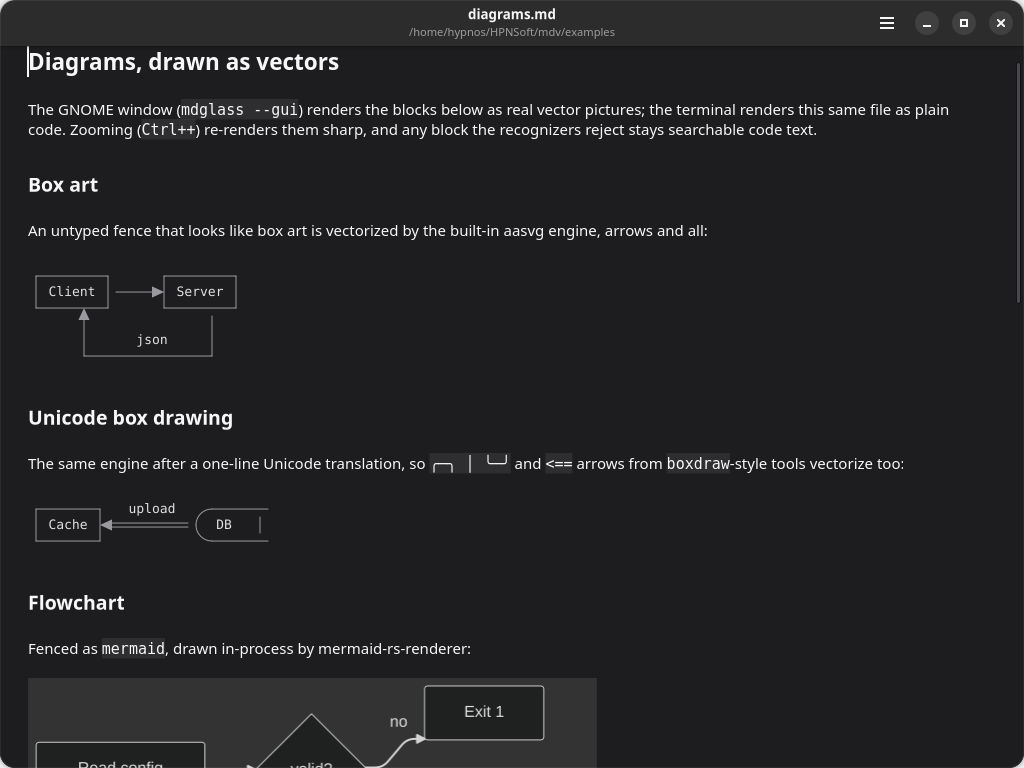
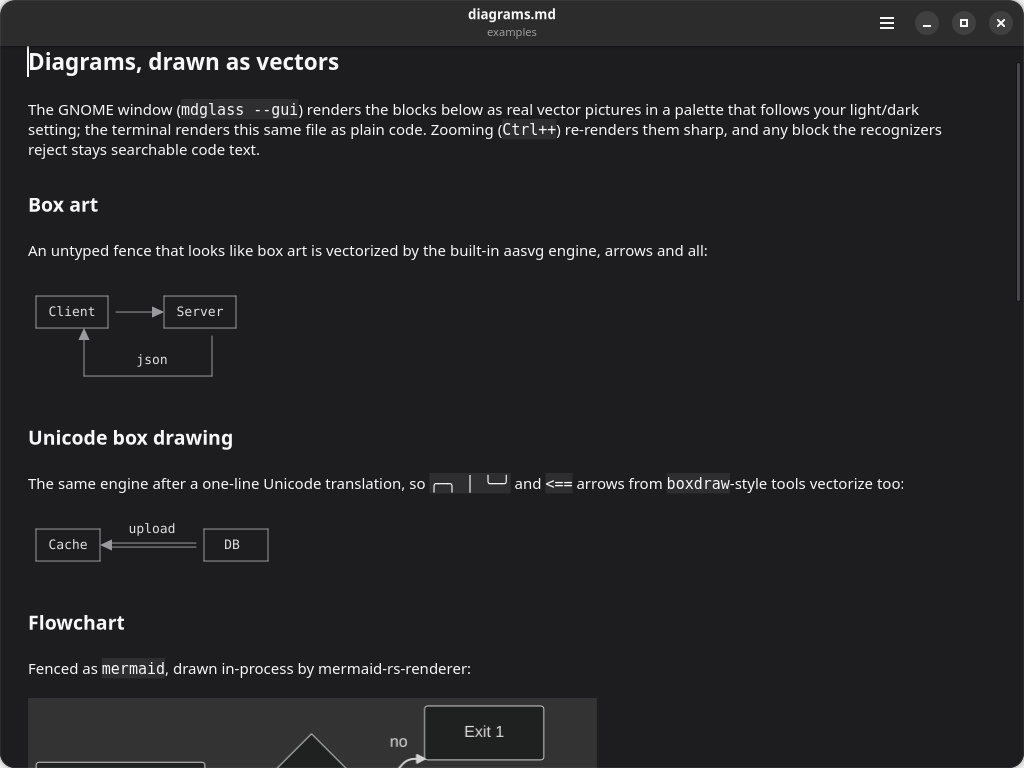
review pass: changelog history, CLI deadline, live-switch tests
Opus 5.5 audit of 50f13e9..HEAD, all findings addressed:
- the release scripts' 'open(w) then read' bug had truncated
  debian/changelog; -1..-6 are restored from git above the -7 entry
- the shipped unicode demo box was one column short (half-open DB
  frame); arrow widened, screenshots re-shot with the dark palettes
- wedged mmdr can no longer freeze the UI thread: 5 s deadline (kill
  without joining the stdout drainer - a grandchild can hold the pipe
  open, verified: a hanging wrapper costs 5 s, not 30), 8 MB output
  cap, and a CLI without -t is retried with the plain invocation
- smoke gains live light/dark switch sessions: a gset: script step
  flips org.gnome.desktop.interface through a workdir-local keyfile
  (the exact path Adwaita uses on a real desktop; set_color_scheme is
  inert headless), and light gates now demand mermaid's #64748B/
  #94A3B8 ink (71 px measured light, 0 dark/text-only) instead of a
  rule the box art alone satisfied
- aasvg keeps its theme-independent raw SVG across style switches
  (constant theme bit in its engine key); only mermaid re-renders
- examples ship under /usr/share/doc/mdglass/examples; nt.log removed
  and *.log ignored; dead test loop gone

diff --git a/tests/gui_smoke.py b/tests/gui_smoke.py
@@ -23,13 +23,15 @@ broadway = subprocess.Popen(["gtk4-broadwayd", DISPLAY], stdout=subprocess.DEVNU
 time.sleep(0.8)
 failures = 0
 
-def run(args, script, stdin=None, timeout=40, scheme=None):
+def run(args, script, stdin=None, timeout=40, scheme=None, env_extra=None):
     env = dict(os.environ, GDK_BACKEND="broadway", BROADWAY_DISPLAY=DISPLAY,
                MDGLASS_GUI_SCRIPT=script,
                # portals of the host session are not needed and may be slow
                ADW_DISABLE_PORTAL="1", GDK_DEBUG="no-portals")
     if scheme:  # pin light/dark so pixel checks do not depend on the host theme
         env["ADW_DEBUG_COLOR_SCHEME"] = scheme
+    if env_extra:
+        env.update(env_extra)
     p = subprocess.run([MDGLASS, "--gui", *args], env=env, input=stdin, capture_output=True,
                        timeout=timeout, cwd=work)
     return p.returncode, p.stderr.decode(errors="replace")
@@ -466,6 +468,18 @@ fn main() {}
     DARK_CANVAS = lambda c: all(abs(v - 0x33) <= 8 for v in c)   # Theme::dark() field
     LIGHT_CANVAS = lambda c: all(v > 235 for v in c)             # light field
 
+    # ink only the mermaid light palette paints: line_color #64748B (edges)
+    # and primary_border_color #94A3B8 (node borders). Neither appears in the
+    # Adwaita light UI nor in the aasvg box-art palette (#5e5c64/#222222), so
+    # these pixels can only come from a light mermaid picture.
+    MERMAID_INK = lambda c: (abs(c[0] - 0x64) <= 6 and abs(c[1] - 0x74) <= 6 and abs(c[2] - 0x8B) <= 6) or \
+                            (abs(c[0] - 0x94) <= 6 and abs(c[1] - 0xA3) <= 6 and abs(c[2] - 0xB8) <= 6)
+
+    def mermaid_ink(path, xlo=20):
+        img = pngread.open(path)
+        return sum(1 for y in range(56, img.h, 2) for x in range(xlo, img.w - 16, 2)
+                   if MERMAID_INK(img.rgb(x, y)[:3]))
+
     def dgr_check(path, dark=True):
         img = pngread.open(path)
         # the mermaid canvas follows the style: #333333 on a dark page,
@@ -481,24 +495,57 @@ fn main() {}
     quality("pictures survive a full re-render of the document", dgr_check, p("dgr2.png"))
     quality("pictures stay vector after zooming", dgr_check, p("dgr3.png"))
 
-    # the palette must follow the style switch, not ride along from before:
-    # same document, light style, dark field forbidden. The light window is
-    # itself near-white, so there is no positive canvas count to demand:
-    # the vector rule (text-only build of this document: 73px) and the
-    # absent dark field carry the proof.
-    rc, err = run([p("dgr.md")], f"shot:{p('dgr_light.png')};quit", scheme="prefer-light", timeout=60)
-    check("light diagram session exits cleanly", rc == 0, f"exit {rc}\n{err[-400:]}")
-    check("light diagram session has no GTK warnings", not gtk_noise(err),
+    # the palette must follow a LIVE style switch, not ride along from before.
+    # The gset: script step flips org.gnome.desktop.interface color-scheme in
+    # a GSETTINGS keyfile inside this suite's own workdir (never the user's
+    # settings), which is exactly how Adwaita learns its style on a real
+    # desktop. One process forces dark, shoots, forces light, shoots: the
+    # dark picture must carry the #333333 field and the light one must gain
+    # mermaid's light-palette ink (a fresh mermaid render, not just box art).
+    cfg = os.path.join(work, "cfg")
+    os.makedirs(cfg, exist_ok=True)
+    flip_env = {"GSETTINGS_BACKEND": "keyfile", "XDG_CONFIG_HOME": cfg}
+    rc, err = run([p("dgr.md")], ";".join([
+        "gset:prefer-dark", f"shot:{p('dgr_flip_dark.png')}",
+        "gset:prefer-light", f"shot:{p('dgr_flip_light.png')}", "quit"]),
+        env_extra=flip_env, timeout=60)
+    check("live-switch diagram session exits cleanly", rc == 0, f"exit {rc}\n{err[-400:]}")
+    check("live-switch diagram session has no GTK warnings", not gtk_noise(err),
           "\n     ".join(gtk_noise(err)[:5]))
 
-    def dgr_light_check(path):
+    def dgr_dark_path(path):
+        img = pngread.open(path)
+        want = runs_of(img, DARK_CANVAS)
+        stale = runs_of(img, LIGHT_CANVAS)
+        best = longest_rule(img)
+        ok = best >= 400 and want >= 8000 and stale < 2000
+        return ok, f"longest rule {best}px, dark canvas {want}px, stale light {stale}px"
+
+    def dgr_light_path(path):
         img = pngread.open(path)
         dark_field = runs_of(img, DARK_CANVAS)
         best = longest_rule(img)
-        ok = dark_field < 1000 and best >= 120
-        return ok, f"dark canvas pixels {dark_field} (must be ~none), longest vector rule {best}px"
+        ink = mermaid_ink(path)
+        # measured: light mermaid flowchart at zoom 1 = 71 ink px, text-only
+        # and dark-mode pages = 0, so >= 30 separates them with margin
+        ok = dark_field < 1000 and best >= 120 and ink >= 30
+        return ok, (f"dark canvas {dark_field}px (must be ~none), rule {best}px, "
+                    f"mermaid light ink {ink}px (proves a light mermaid re-render)")
 
-    quality("light style gets a light mermaid palette, still vector", dgr_light_check, p("dgr_light.png"))
+    quality("forced dark paints the dark mermaid palette", dgr_dark_path, p("dgr_flip_dark.png"))
+    quality("forcing light live repaints mermaid light, no dark field left", dgr_light_path, p("dgr_flip_light.png"))
+
+    # the same, in a process that starts light and flips to dark: the light
+    # picture carries mermaid ink and no dark field; after the flip the dark
+    # field is back.
+    rc, err = run([p("dgr.md")], ";".join([
+        "gset:prefer-light", f"shot:{p('dgr_light.png')}",
+        "gset:prefer-dark", f"shot:{p('dgr_after_dark.png')}", "quit"]),
+        env_extra=flip_env, timeout=60)
+    check("light-start diagram session exits cleanly", rc == 0, f"exit {rc}\n{err[-400:]}")
+
+    quality("light style gets a light mermaid palette, still vector", dgr_light_path, p("dgr_light.png"))
+    quality("forcing dark live repaints the dark field", dgr_dark_path, p("dgr_after_dark.png"))
 
     # the near-misses must stay text: HTML, progress bars and grid tables
     # would lose their searchable, copyable content to a picture

diff --git a/src/gui.rs b/src/gui.rs
@@ -120,6 +120,13 @@ struct Lib {
     gtk_picture_set_paintable: unsafe extern "C" fn(Ptr, Ptr),
     gdk_memory_texture_new: unsafe extern "C" fn(c_int, c_int, c_int, Ptr, usize) -> Ptr,
     g_bytes_new_with_free_func: unsafe extern "C" fn(Ptr, usize, Option<unsafe extern "C" fn(Ptr)>, Ptr) -> Ptr,
+    // the gset: script step (test hook): schema-checked GSettings write, so
+    // a host without org.gnome.desktop.interface gets a no-op, not an abort
+    g_settings_schema_source_get_default: unsafe extern "C" fn() -> Ptr,
+    g_settings_schema_source_lookup: unsafe extern "C" fn(Ptr, *const c_char, c_int) -> Ptr,
+    g_settings_schema_unref: unsafe extern "C" fn(Ptr),
+    g_settings_new_full: unsafe extern "C" fn(Ptr, Ptr, Ptr) -> Ptr,
+    g_settings_set_string: unsafe extern "C" fn(Ptr, *const c_char, *const c_char) -> c_int,
     gdk_pixbuf_loader_new_with_type: unsafe extern "C" fn(*const c_char, *mut Ptr) -> Ptr,
     gdk_pixbuf_loader_write: unsafe extern "C" fn(Ptr, *const u8, usize, *mut Ptr) -> c_int,
     gdk_pixbuf_loader_close: unsafe extern "C" fn(Ptr, *mut Ptr) -> c_int,
@@ -328,6 +335,11 @@ fn load_lib() -> Result<Lib, String> {
             gtk_picture_set_paintable: gs!("gtk_picture_set_paintable", unsafe extern "C" fn(Ptr, Ptr)),
             gdk_memory_texture_new: gs!("gdk_memory_texture_new", unsafe extern "C" fn(c_int, c_int, c_int, Ptr, usize) -> Ptr),
             g_bytes_new_with_free_func: gs!(glib "g_bytes_new_with_free_func", unsafe extern "C" fn(Ptr, usize, Option<unsafe extern "C" fn(Ptr)>, Ptr) -> Ptr),
+            g_settings_schema_source_get_default: gs!(gio "g_settings_schema_source_get_default", unsafe extern "C" fn() -> Ptr),
+            g_settings_schema_source_lookup: gs!(gio "g_settings_schema_source_lookup", unsafe extern "C" fn(Ptr, *const c_char, c_int) -> Ptr),
+            g_settings_schema_unref: gs!(gio "g_settings_schema_unref", unsafe extern "C" fn(Ptr)),
+            g_settings_new_full: gs!(gio "g_settings_new_full", unsafe extern "C" fn(Ptr, Ptr, Ptr) -> Ptr),
+            g_settings_set_string: gs!(gio "g_settings_set_string", unsafe extern "C" fn(Ptr, *const c_char, *const c_char) -> c_int),
             gdk_pixbuf_loader_new_with_type: gopt!(pixbuf, "gdk_pixbuf_loader_new_with_type", unsafe extern "C" fn(*const c_char, *mut Ptr) -> Ptr),
             gdk_pixbuf_loader_write: gopt!(pixbuf, "gdk_pixbuf_loader_write", unsafe extern "C" fn(Ptr, *const u8, usize, *mut Ptr) -> c_int),
             gdk_pixbuf_loader_close: gopt!(pixbuf, "gdk_pixbuf_loader_close", unsafe extern "C" fn(Ptr, *mut Ptr) -> c_int),
@@ -516,8 +528,9 @@ struct App {
     rescroll_upper: f64,
     pending_top: Option<(usize, i32)>,
     /// raw engine SVG per diagram block, keyed by (info string, source,
-    /// dark): mermaid bakes its palette in, so the theme is part of the key.
-    /// aasvg output is theme-independent but keyed the same way. None =
+    /// theme-dependent): mermaid bakes its palette, so its bit is the real
+    /// dark flag; aasvg output is theme-independent and keyed with a constant
+    /// false, so a style flip re-runs neither aasvg nor its gate. None =
     /// failed, also cached, so a broken block never re-runs the engine on
     /// every frame. Cleared when another document loads.
     svg_cache: HashMap<(String, String, bool), Option<String>>,
@@ -1180,7 +1193,10 @@ unsafe fn picture_for(lang: &str, lines: &[String]) -> Ptr {
     }
     let src = lines.join("\n");
     let dark = (l().adw_style_manager_get_dark)((l().adw_style_manager_get_default)()) != 0;
-    let key = (lang.to_string(), src.clone(), dark);
+    // aasvg's raw SVG is theme-independent (its colors are pinned at raster
+    // time), so only mermaid - which bakes its palette - earns a theme bit
+    // in the engine key; a style flip re-runs exactly one engine.
+    let key = (lang.to_string(), src.clone(), dark && vector::is_mermaid(lang));
     let raw = match (*app()).svg_cache.get(&key) {
         Some(hit) => hit.clone(),
         None => {
@@ -1196,7 +1212,7 @@ unsafe fn picture_for(lang: &str, lines: &[String]) -> Ptr {
     let Some(raw) = raw else { return std::ptr::null_mut() };
     let Some(svg) = vector::apply_theme(lang, &raw, dark) else { return std::ptr::null_mut() };
     let zoom = (*app()).zoom;
-    let rkey = key; // raster keys carry the same theme bit
+    let rkey = (key.0.clone(), key.1.clone(), dark); // raster always carries the real bit
     (*app()).used_raster.insert(rkey.clone());
     if let Some((z, pb)) = (*app()).raster_cache.get(&rkey) {
         if (z - zoom).abs() < 0.005 {
@@ -2333,6 +2349,24 @@ unsafe extern "C" fn on_script_step(_data: Ptr) -> c_int {
             eprintln!("mdglass-script: hits label = {lbl:?}");
         }
         "next" => click_find_next(std::ptr::null_mut(), std::ptr::null_mut()),
+        "gset" => {
+            // Flip org.gnome.desktop.interface color-scheme; the smoke suite
+            // points GSETTINGS_BACKEND at a keyfile in its own workdir, so
+            // this steers Adwaita (and through it the diagram palettes)
+            // without ever touching the user's settings. Schema-checked:
+            // g_settings_new on a missing schema would abort the app.
+            let src = (l().g_settings_schema_source_get_default)();
+            let sch = (l().g_settings_schema_source_lookup)(src, c"org.gnome.desktop.interface".as_ptr(), 1);
+            if !sch.is_null() {
+                let st = (l().g_settings_new_full)(sch, std::ptr::null_mut(), std::ptr::null_mut());
+                (l().g_settings_schema_unref)(sch);
+                if !st.is_null() {
+                    let v = cstr(arg);
+                    (l().g_settings_set_string)(st, c"color-scheme".as_ptr(), v.as_ptr());
+                    (l().g_object_unref)(st);
+                }
+            }
+        }
         "esc" => {
             key_press(std::ptr::null_mut(), KEY_ESCAPE, 0, 0, std::ptr::null_mut());
         }

diff --git a/src/vector.rs b/src/vector.rs
@@ -207,30 +207,120 @@ pub fn apply_theme(lang: &str, raw: &str, dark: bool) -> Option<String> {
 
 /// Second-chance Mermaid through an installed `mmdr` CLI, when the built-in
 /// renderer (0.3.x, still growing) cannot parse the diagram. The `-t` preset
-/// keeps the fallback's palette in step with the built-in one.
+/// keeps the fallback's palette in step with the built-in one; CLIs older
+/// than `-t` exit with an error, so the plain invocation is retried once
+/// (a wrong palette still beats text). This runs on the UI thread, so a
+/// wedged CLI must not wedge the window: a 5 s deadline kills it and stdout
+/// is capped at 8 MB.
 pub fn mermaid_via_cli(text: &str, dark: bool) -> Option<String> {
-    use std::io::Write;
-    use std::process::{Command, Stdio};
     if !fits(text) {
         return None;
     }
-    let mut child = Command::new("mmdr")
-        .args(["-e", "svg", "-t", if dark { "dark" } else { "modern" }])
+    let theme = if dark { "dark" } else { "modern" };
+    let mut attempt = mmdr_once(text, Some(theme), CLI_DEADLINE);
+    if matches!(attempt, Attempt::StaleInvocation) {
+        attempt = mmdr_once(text, None, CLI_DEADLINE);
+    }
+    match attempt {
+        Attempt::Picture(svg) => Some(svg),
+        _ => None,
+    }
+}
+
+const CLI_DEADLINE: std::time::Duration = std::time::Duration::from_secs(5);
+const CLI_MAX_OUT: usize = 8 * 1024 * 1024;
+
+enum Attempt {
+    Picture(String), // usable SVG
+    Useless,         // CLI ran and answered: no picture, do not ask twice
+    StaleInvocation, // nonzero exit: maybe a CLI that lacks `-t`
+    Dead,            // absent, hung, or broken: never retry on this path
+}
+
+fn mmdr_once(text: &str, theme: Option<&str>, deadline: std::time::Duration) -> Attempt {
+    use std::io::Read;
+    use std::io::Write;
+    use std::process::{Command, Stdio};
+    let mut args: Vec<&str> = vec!["-e", "svg"];
+    if let Some(t) = theme {
+        args.extend(["-t", t]);
+    }
+    let mut child = match Command::new("mmdr")
+        .args(&args)
         .stdin(Stdio::piped())
         .stdout(Stdio::piped())
         .stderr(Stdio::null())
         .spawn()
-        .ok()?;
-    // close stdin even when the write fails, and always reap the child:
-    // an early return here used to leak a zombie next to a blocked mmdr
+    {
+        Ok(c) => c,
+        Err(_) => return Attempt::Dead,
+    };
+    // close stdin even when the write fails
     if let Some(mut si) = child.stdin.take() {
         let _ = si.write_all(text.as_bytes());
     }
-    let out = child.wait_with_output().ok()?;
-    if out.status.success() && out.stdout.windows(5).any(|w| w == b"<svg ") {
-        String::from_utf8(out.stdout).ok()
+    // drain stdout on a helper thread: a child writing more than a pipe
+    // buffer deadlocks against a parent that only waits. The thread posts
+    // over a channel so the UI thread can cap how long it waits for the
+    // last pipe writer to close, even after mmdr itself has exited.
+    let mut out = match child.stdout.take() {
+        Some(o) => o,
+        None => {
+            let _ = child.kill();
+            let _ = child.wait();
+            return Attempt::Dead;
+        }
+    };
+    let (tx, rx) = std::sync::mpsc::channel();
+    std::thread::spawn(move || {
+        let mut buf = Vec::new();
+        let mut chunk = [0u8; 1 << 16];
+        while let Ok(n) = out.read(&mut chunk) {
+            if n == 0 {
+                break;
+            }
+            if buf.len() < CLI_MAX_OUT {
+                buf.extend_from_slice(&chunk[..n]);
+            }
+        }
+        let _ = tx.send(buf);
+    });
+    let started = std::time::Instant::now();
+    let status = loop {
+        match child.try_wait() {
+            Ok(Some(st)) => break st,
+            Ok(None) => {
+                if started.elapsed() > deadline {
+                    let _ = child.kill();
+                    let _ = child.wait();
+                    // no wait for the reader here either: a grandchild (a
+                    // wrapper script that spawned something) can hold the
+                    // pipe's write end open long after mmdr dies - the
+                    // detached thread unwinds when the last writer closes
+                    return Attempt::Dead;
+                }
+                std::thread::sleep(std::time::Duration::from_millis(20));
+            }
+            Err(_) => {
+                let _ = child.kill();
+                let _ = child.wait();
+                return Attempt::Dead;
+            }
+        }
+    };
+    // exited child closed the pipe, so the reader is already done; a hung
+    // grandchild inheriting it is capped here instead of freezing the UI
+    let stdout = rx.recv_timeout(std::time::Duration::from_millis(250)).unwrap_or_default();
+    if !status.success() {
+        return Attempt::StaleInvocation;
+    }
+    if stdout.windows(5).any(|w| w == b"<svg ") {
+        match String::from_utf8(stdout) {
+            Ok(svg) => Attempt::Picture(svg),
+            Err(_) => Attempt::Useless,
+        }
     } else {
-        None
+        Attempt::Useless
     }
 }
 
@@ -347,9 +437,6 @@ mod tests {
         }
         assert!(open.is_none(), "balanced fences");
         assert_eq!(fences.len(), 6, "six fenced blocks in the example");
-        for (i, lang) in [("", ""), ("text", "text")].iter().take(0) {
-            let _ = (i, lang); // (kept simple below)
-        }
         // box art and unicode art vectorize, themed for either style
         for i in 0..2 {
             assert_eq!(fences[i].0, ["", "text"][i], "block {i} info string");

diff --git a/docs/diagram-engine-options.md b/docs/diagram-engine-options.md
@@ -111,6 +111,13 @@ Shipped shape: `src/vector.rs` (pure recognition/SVG) + the GUI render path
 (`picture_for`/`emit_picture` in `src/gui.rs`). Step 2 survives as the CLI
 second chance: built-in mmdr renders, and only when it fails an installed
 `mmdr` CLI is tried (`mermaid_via_cli`); anything else stays a code block.
+The CLI runs on the UI thread, so a wedged one must not wedge the window: a
+5 s deadline kills it (and does not wait for the stdout drainer, which a
+grandchild could hold open), stdout is capped at 8 MB, and a nonzero exit
+retries once without `-t` so a CLI predating that flag still draws (wrong
+palette beats text). One asymmetry: a `%%{init: {theme}}%%` directive
+overrides `-t` in the CLI but is ignored in-process, so the same diagram can
+follow light/dark built-in yet not via the fallback.
 Step 3 took the crates.io `scene`-free route (0.3.1, SVG via librsvg); the
 git `scene` feature stays unshipped. Release profile switched to
 `panic = "unwind"` so both engines run inside `catch_unwind` — a parser
@@ -156,8 +163,9 @@ render at the target size (crisp vectors, never an upscale). The `dark` bit
 is in the SVG key because mermaid bakes its palette in: `Theme::modern()`
 paints a white canvas, `Theme::dark()` a `#333333` one, so the diagrams
 follow the system light/dark setting; the `mmdr` CLI gets `-t modern|dark`
-to match. aasvg output is theme-independent (it carries `var()` colors that
-`svg_theme` resolves later) but keys the same way. Both caches prune to the
+to match. aasvg output is theme-independent (its `var()` colors are resolved
+later by `svg_theme`), so its engine key carries a constant theme bit and a
+style flip re-runs only mermaid; the raster key always carries the real one. Both caches prune to the
 keys the current emit used, because live reload re-renders with the
 cache-retaining flag and would otherwise accumulate every saved revision.
 Zoom clamp: one uniform factor across both axes.
